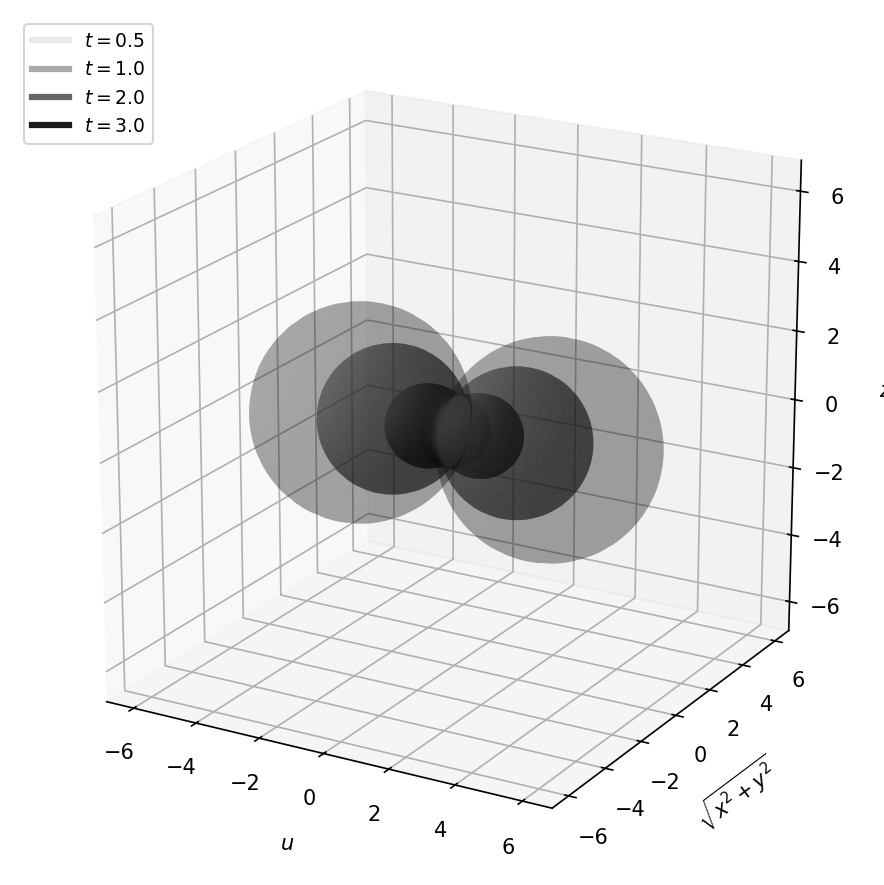
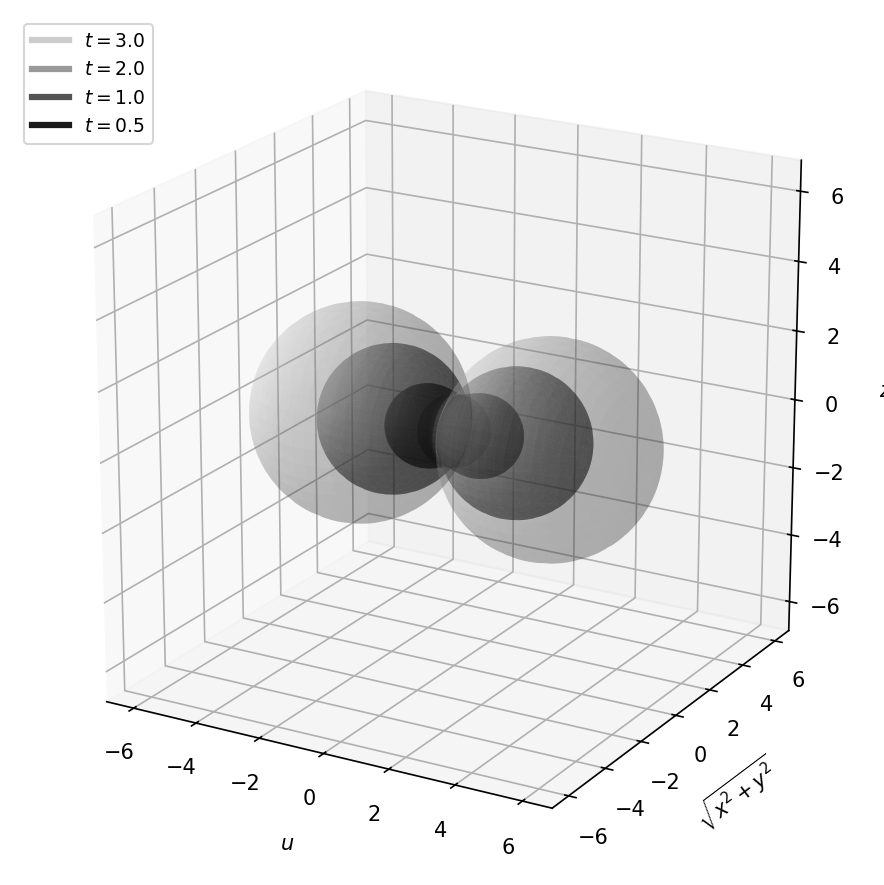
Auto-sync local changes 2026-09-21 10:00:04

diff --git a/scripts/hippopede_growth_3d.py b/scripts/hippopede_growth_3d.py
@@ -22,12 +22,12 @@ FIGURES = Path(__file__).resolve().parents[1] / "figures"
 FIGURES.mkdir(exist_ok=True)
 OUT = FIGURES / "hippopede_growth_3d.png"
 
-# Inner surfaces: light + opaque; outer surfaces: dark + transparent.
-# Drawn from outermost to innermost so the painter's algorithm shows
-# the inner (bright) shells through the semi-transparent outer (dark) ones.
-T_VALUES   = [3.0,     2.0,     1.0,     0.5    ]
-COLORS     = ["#1a1a1a", "#666666", "#aaaaaa", "#e8e8e8"]
-ALPHAS     = [0.20,    0.40,    0.65,    0.90   ]
+# Innermost surface: darkest + most opaque.
+# Outermost surface: lightest + most transparent (so inner surfaces remain visible).
+# Drawn from outermost to innermost so the opaque dark cores appear on top.
+T_VALUES   = [3.0,     2.0,     1.0,     0.5    ]  # draw order: outer first
+COLORS     = ["#cccccc", "#999999", "#555555", "#1a1a1a"]
+ALPHAS     = [0.18,    0.40,    0.65,    0.88   ]
 
 CHI = np.linspace(0, np.pi, 300)
 PHI = np.linspace(0, 2 * np.pi, 120)
@@ -88,7 +88,7 @@ for t_val, color, alpha in zip(T_VALUES, COLORS, ALPHAS):
     ax.plot_surface(u, y_ax, z_ax, facecolors=fc, alpha=alpha,
                     linewidth=0, antialiased=True)
 
-# Legend in increasing-t order
+# Legend in increasing-t order (T_VALUES is decreasing for draw order)
 for t_val, color in sorted(zip(T_VALUES, COLORS)):
     ax.plot([], [], [], color=color, lw=3, label=f"$t={t_val}$")
 
